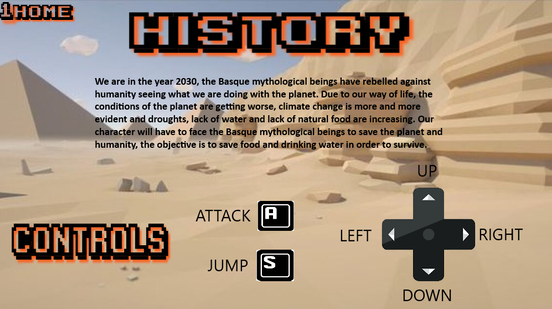
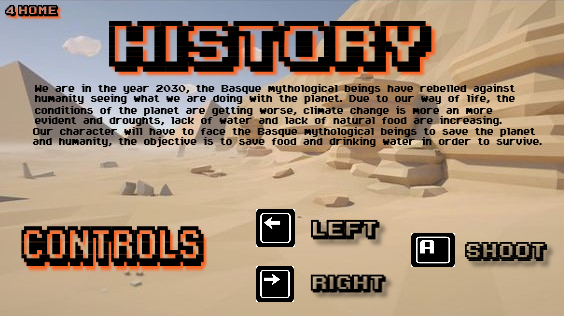
pantallas home, history cambiadas

diff --git a/src/initialize.js b/src/initialize.js
@@ -41,7 +41,7 @@ function initVars()
     globals.frameTimeObj = 1 / FPS; //Frame time in secondsg
 
     //Iniciar el estado juego
-    globals.gameState = Game.PLAYING;
+    globals.gameState = Game.HOME;
 
     //Inicializamos los estados de las acciones
     globals.action = {
@@ -92,7 +92,7 @@ function loadAssets()
     //home
     tileSet = new Image();
     tileSet.addEventListener("load", loadHandler, false);
-    tileSet.src = "./images/MENU1.png";
+    tileSet.src = "./images/MENU.png";
     globals.tileSets.push(tileSet);
     globals.assetsToLoad.push(tileSet);
 
@@ -106,7 +106,7 @@ function loadAssets()
     //history
     tileSet = new Image();
     tileSet.addEventListener("load", loadHandler, false);
-    tileSet.src = "./images/HISTORY.png";
+    tileSet.src = "./images/history1.png";
     globals.tileSets.push(tileSet);
     globals.assetsToLoad.push(tileSet);
 
@@ -142,7 +142,7 @@ function loadHandler()
         console.log("Assets finished loading");
 
         //Start the game
-        globals.gameState = Game.PLAYING;
+        globals.gameState = Game.HOME;
     }
 }
 

diff --git a/src/gameRender.js b/src/gameRender.js
@@ -1,10 +1,8 @@
 import globals from "./globals.js";
 import {Tile, Game, ParticleID, ParticleState, SCORE_SIZE} from "./constants.js";
-import Sprite from "./sprite.js";
 
 export default function render()
 {
-
     //Change what thw game is doing based game state
     switch(globals.gameState)
     {
